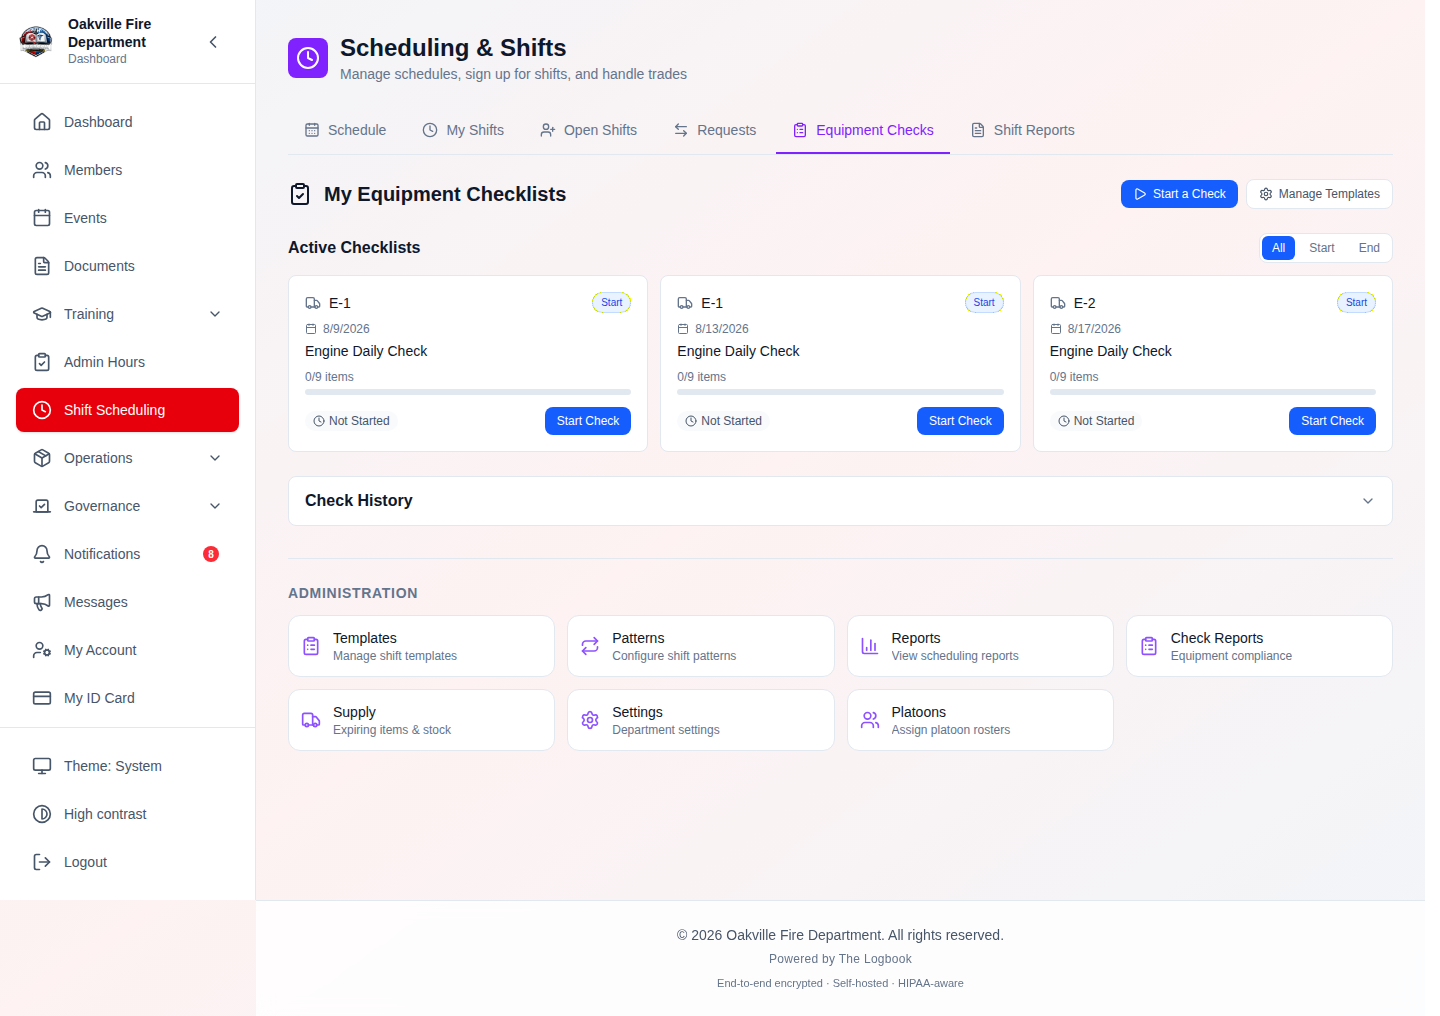
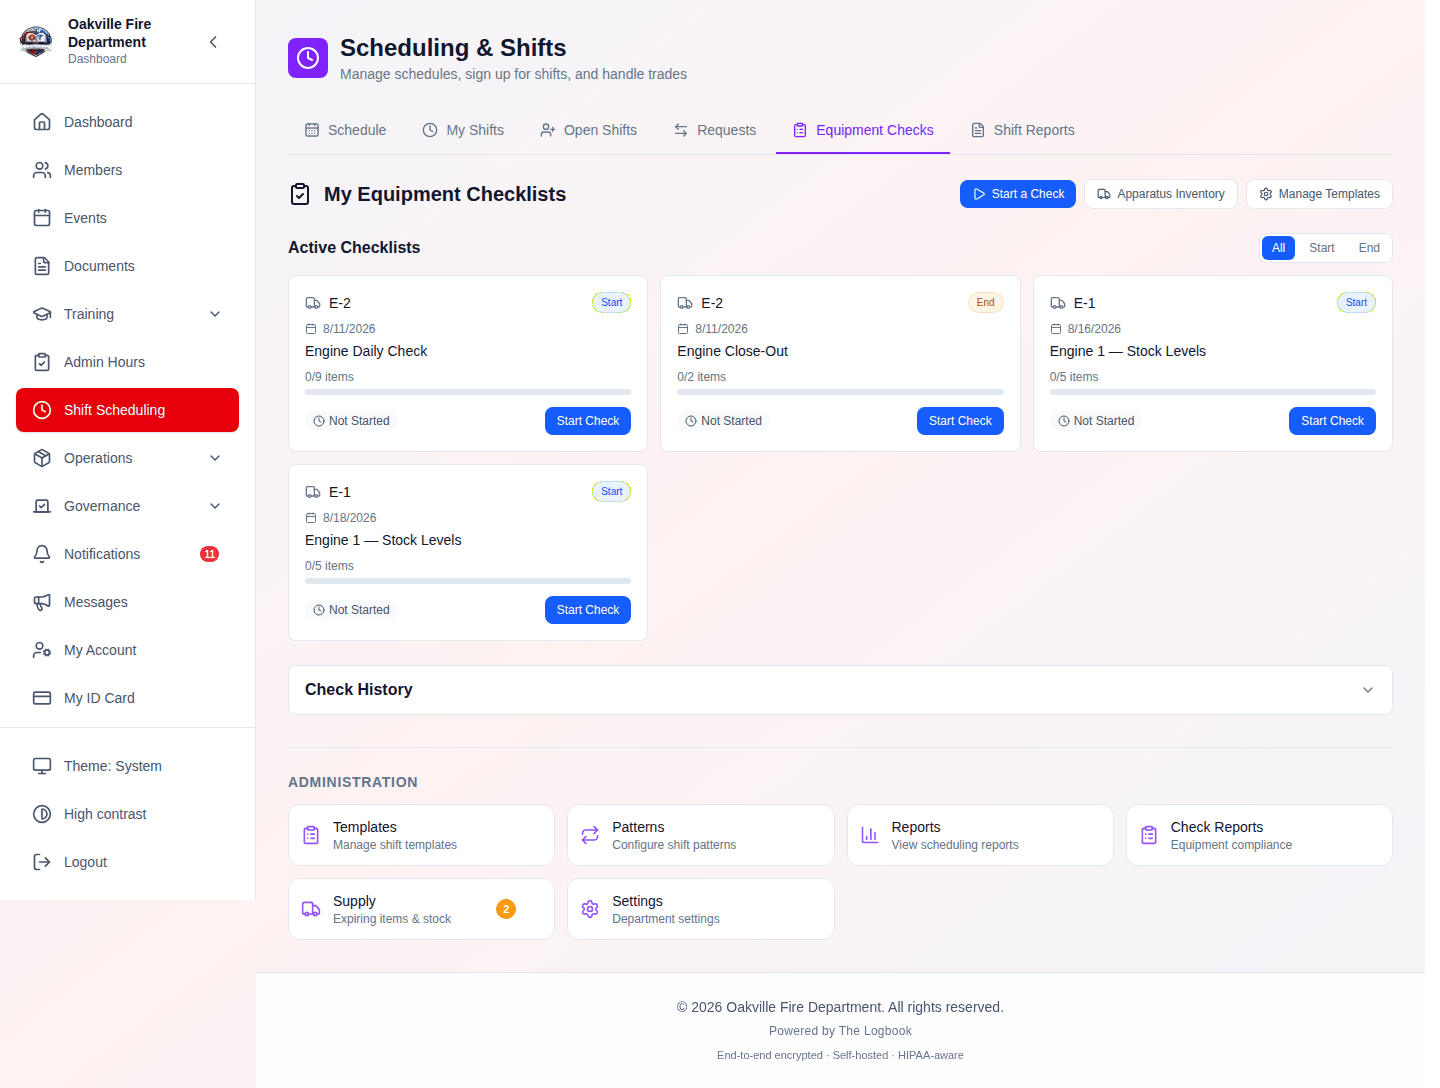
docs(scheduling): stock a truck, so Apparatus Inventory has something to show
The page is documented with counted positions and short counts, and rendered
nothing for all seven apparatus. The inventory endpoint joins template
compartments by `EquipmentCheckTemplate.apparatus_id`, and both seeded templates
bind by `apparatus_type` — a checklist that applies to every engine, which is a
real arrangement, just not one that stocks a particular truck.

A new seeder step binds one template to Engine 1 by id, with five counted
positions: three at par, two short. The par figure is all the create payload
carries, so what is aboard is set afterwards through the quantity endpoint —
without that, a position at par and one nobody has counted look identical.

03-95 is the result on a phone: the header counting tracked positions against
those needing restock, "6 of 6 aboard" plain, and the short ones badged amber
with the gap spelled out. The guide now also says why a truck can be bare here —
a type-bound template supplies checklists but stocks no particular rig.

As predicted in the limitation this replaces, the id-bound template also
attaches to Engine 1's shifts: `_resolve_templates` matches by id OR type. I
re-captured the three neighbouring equipment-check shots and read each one. All
three are current and none is degraded — 03-25 now shows four checklists across
both timings rather than two, which is what a truck with its own stock sheet
actually looks like.

357 captured, 131 remaining.

diff --git a/scripts/screenshots/seed_demo_data.py b/scripts/screenshots/seed_demo_data.py
@@ -116,6 +116,11 @@ OFFICER_RANKS = frozenset(
 # per-section point totals and a percentage.
 SCORED_TEMPLATE_NAME = "Handline Advance — Weighted Evaluation"
 
+# The one apparatus stocked by id rather than by type, so Apparatus Inventory
+# has counted positions to show. See seed_apparatus_stock.
+APPARATUS_STOCK_UNIT = "Engine 1"
+APPARATUS_STOCK_TEMPLATE_NAME = "Engine 1 — Stock Levels"
+
 # The candidate on the one failed test. Not the demo member, whose passed test
 # the scorecard screenshots are built around.
 FAILED_TEST_CANDIDATE_USERNAME = "cfrazier"
@@ -3303,6 +3308,127 @@ class Seeder:
         return requests
 
     # -- scheduling: equipment check templates and completed checks --
+
+    # The truck one apparatus is stocked on, by id rather than by type. The
+    # counted positions are what the Apparatus Inventory page is: a par figure,
+    # what is aboard now, and the gap between them.
+    #
+    # (name, expected on the truck, actually aboard)
+    APPARATUS_STOCK_POSITIONS = [
+        (
+            "EMS Compartment",
+            [
+                ("Nitrile gloves (box)", 6, 6),
+                ("Trauma dressing 5x9", 12, 7),
+                ("Burn sheet", 4, 4),
+            ],
+        ),
+        (
+            "Compartment 2 — Officer Side",
+            [
+                ("Road flares", 24, 15),
+                ("Absorbent pads", 10, 10),
+            ],
+        ),
+    ]
+
+    def seed_apparatus_stock(self) -> dict | None:
+        """Stock one truck, so Apparatus Inventory has something to show.
+
+        The inventory endpoint joins template compartments to an apparatus by
+        ``EquipmentCheckTemplate.apparatus_id``. Both other seeded templates
+        bind by ``apparatus_type`` — a checklist that applies to every engine,
+        which is a real thing a department has, but not one that stocks a
+        particular truck — so the page rendered nothing for all seven apparatus.
+
+        Deliberately one apparatus and one template: ``_resolve_templates``
+        matches a shift's checklists by id **or** type, so every id-bound
+        template also attaches to that apparatus's shifts. One is enough to
+        photograph the page and small enough to reason about when a checklist
+        count moves.
+        """
+        apparatus = items(self.api.get("/apparatus?page_size=50"), "apparatus", "items")
+        target = next(
+            (
+                a
+                for a in apparatus
+                if str(pick(a, "name") or "") == APPARATUS_STOCK_UNIT
+            ),
+            None,
+        )
+        if not target:
+            return None
+        apparatus_id = pick(target, "id")
+
+        templates = items(self.api.get("/equipment-checks/templates"), "templates")
+        existing = next(
+            (
+                t
+                for t in templates
+                if str(pick(t, "name") or "") == APPARATUS_STOCK_TEMPLATE_NAME
+            ),
+            None,
+        )
+        if existing is None:
+            existing = self.api.post(
+                "/equipment-checks/templates",
+                {
+                    "name": APPARATUS_STOCK_TEMPLATE_NAME,
+                    "description": (
+                        f"What {APPARATUS_STOCK_UNIT} carries, and how many of each."
+                    ),
+                    "check_timing": "start_of_shift",
+                    "apparatus_id": apparatus_id,
+                    "is_active": True,
+                    "compartments": [
+                        {
+                            "name": name,
+                            "sort_order": order,
+                            "items": [
+                                {
+                                    "name": item_name,
+                                    "sort_order": item_order,
+                                    "check_type": "quantity",
+                                    "is_required": True,
+                                    "expected_quantity": par,
+                                }
+                                for item_order, (item_name, par, _aboard) in enumerate(
+                                    contents
+                                )
+                            ],
+                        }
+                        for order, (name, contents) in enumerate(
+                            self.APPARATUS_STOCK_POSITIONS
+                        )
+                    ],
+                },
+            )
+
+        template_id = pick(existing, "id")
+        if not template_id:
+            return None
+
+        # What is aboard now is set per item after the fact: the create payload
+        # carries the par figure only, and a position at par looks the same as
+        # one nobody has counted until this runs.
+        aboard = {
+            item_name: on_truck
+            for _compartment, contents in self.APPARATUS_STOCK_POSITIONS
+            for item_name, _par, on_truck in contents
+        }
+        detail = self.api.get(f"/equipment-checks/templates/{template_id}")
+        for compartment in detail.get("compartments") or []:
+            for item in compartment.get("items") or []:
+                name = str(pick(item, "name") or "")
+                if name not in aboard:
+                    continue
+                if pick(item, "quantity_on_truck") == aboard[name]:
+                    continue
+                self.api.put(
+                    f"/equipment-checks/items/{pick(item, 'id')}/quantity",
+                    {"quantity": aboard[name]},
+                )
+        return existing
 
     def seed_equipment_checks(self) -> dict[str, Any]:
         """A template plus completed checks, which the reports page aggregates."""
@@ -7845,6 +7971,7 @@ class Seeder:
         self.step("expense reports", lambda: self.seed_expense_reports(finance))
         self.step("check requests", lambda: self.seed_check_requests(finance))
         self.step("equipment checks", self.seed_equipment_checks)
+        self.step("apparatus stock", self.seed_apparatus_stock)
         self.step("shift reports", lambda: self.seed_shift_reports(members))
         # After the reports: finalizing auto-creates drafts for attendees, and
         # doing it first would put a second batch of drafts in the way of the

diff --git a/docs/training/03-scheduling.md b/docs/training/03-scheduling.md
@@ -834,8 +834,18 @@ any member with `equipment_check.submit` — the default member position — bec
 recording what you just used is crew work, and putting it behind an officer
 permission is the thing that leaves the bracket empty until morning.
 
-> **Screenshot needed:**
-> _[Screenshot of the Apparatus Inventory page on a phone with an engine selected, showing two compartments expanded — one position at full count in green, one short with an amber count, and one showing a lots-aboard chip with two dates]_
+![Apparatus Inventory on a phone — counted positions with what is aboard against par, the short ones called out](./images/03-95-apparatus-inventory.png)
+
+The header counts the truck twice: **how many positions are tracked**, and **how
+many need restock**. A position at par states its count plainly — "6 of 6
+aboard" — and a position under it carries an amber **Short** badge with the gap
+spelled out, so the two are told apart at a glance rather than by shade.
+
+> **A tracked position comes from a checklist bound to _that_ apparatus.** A
+> template that applies to every engine — bound by apparatus **type** — supplies
+> checklists for shifts but stocks no particular truck, and a rig with only
+> type-bound templates shows an empty inventory. If a truck you expect to see
+> here is bare, that is why.
 
 Each position offers up to five actions, and they mean different things:
 

diff --git a/docs/training/SCREENSHOT_STATUS.md b/docs/training/SCREENSHOT_STATUS.md
@@ -9,14 +9,14 @@ image still matches the application is tracked by hand in
 [SCREENSHOT_CURRENCY.md](./SCREENSHOT_CURRENCY.md) — this file is
 regenerated wholesale, so that audit cannot live here.
 
-**356 of 488 placeholders filled** (132 remaining).
+**357 of 488 placeholders filled** (131 remaining).
 
 | Guide | Captured | Remaining |
 |-------|---------:|----------:|
 | [00-getting-started.md](./00-getting-started.md) | 11 | 2 |
 | [01-membership.md](./01-membership.md) | 23 | 4 |
 | [02-training.md](./02-training.md) | 65 | 12 |
-| [03-scheduling.md](./03-scheduling.md) | 51 | 19 |
+| [03-scheduling.md](./03-scheduling.md) | 52 | 18 |
 | [04-events-meetings.md](./04-events-meetings.md) | 27 | 14 |
 | [05-inventory.md](./05-inventory.md) | 39 | 15 |
 | [06-apparatus-facilities.md](./06-apparatus-facilities.md) | 14 | 7 |
@@ -32,5 +32,5 @@ regenerated wholesale, so that audit cannot live here.
 | [16-integrations.md](./16-integrations.md) | 4 | 8 |
 | [17-privacy-data-rights.md](./17-privacy-data-rights.md) | 2 | 0 |
 | [18-storefront.md](./18-storefront.md) | 4 | 1 |
-| **Total** | **356** | **132** |
+| **Total** | **357** | **131** |
 
